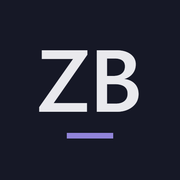
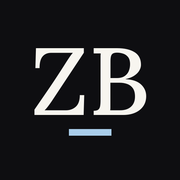
QA pass: tighter hero, tablet layout, polish
- Hero: removed the "I grew FanSided" line; logos carry it. Share card
  and link-preview text now use title lines instead
- Tablets (760-999px) use the side-by-side hero, no giant background photo
- Board and contact sections stay single-column until 1000px, so the
  heading and "Let's talk." no longer squeeze or break
- Guest cards: 2x2 until 1200px so episode lines don't orphan the arrow
- 320px phones: header and buttons fit without overflow
- Fixed clipped "Get in touch" button and "Listen to the podcast" label
- New favicon/app icons in the current style (old purple accent removed)
- Structured data: Bijan Robinson and Drew Brees episodes

Checked at 16 widths (320-2560): no sideways scroll, all text passes
WCAG AA contrast, all tap targets >= 44px, no script errors.

Claude-Session: https://claude.ai/code/session_01J5Zi9X7uXZ3VFSwq8V9zpb

Changed region(s): [[0.1667, 0.25, 0.8333, 0.6667], [0.3611, 0.6944, 0.6389, 0.7778]]

diff --git a/index.html b/index.html
@@ -16,7 +16,7 @@
 <meta property="og:locale" content="en_US">
 <meta property="og:url" content="https://zacharybest.com/">
 <meta property="og:title" content="Zach Best | Founder, Operator, Executive">
-<meta property="og:description" content="I grew FanSided from one sports site into 300+ fan communities. Today I lead it, and the communities at Sports Illustrated.">
+<meta property="og:description" content="Co-founder of FanSided. EVP of Communities at Sports Illustrated. Co-host of What's Your Y? and executive producer of The Sportscaster.">
 <meta property="og:image" content="https://zacharybest.com/og-image.jpg">
 <meta property="og:image:type" content="image/jpeg">
 <meta property="og:image:width" content="1200">
@@ -28,7 +28,7 @@
 <meta name="twitter:site" content="@zacharybest">
 <meta name="twitter:creator" content="@zacharybest">
 <meta name="twitter:title" content="Zach Best | Founder, Operator, Executive">
-<meta name="twitter:description" content="I grew FanSided from one sports site into 300+ fan communities. Today I lead it, and the communities at Sports Illustrated.">
+<meta name="twitter:description" content="Co-founder of FanSided. EVP of Communities at Sports Illustrated. Co-host of What's Your Y? and executive producer of The Sportscaster.">
 <meta name="twitter:image" content="https://zacharybest.com/og-image.jpg">
 <meta name="twitter:image:alt" content="Zach Best, co-founder of FanSided and EVP of Communities at Sports Illustrated">
 
@@ -54,6 +54,8 @@
 {"@type":"NewsArticle","headline":"FanSided launches redesigned app with emphasis on personalized feeds, in-depth coverage","url":"https://www.sportsbusinessjournal.com/Articles/2026/11/16/fansided-launches-redesigned-app-with-emphasis-on-personalized-feeds-in-depth-coverage/","datePublished":"2026-11-16","publisher":{"@type":"Organization","name":"Sports Business Journal"}},
 {"@type":"Movie","name":"The Sportscaster","url":"https://thesportscasterfilm.com/","dateCreated":"2026","duration":"PT55M","director":{"@type":"Person","name":"Hunter Armor"},"producer":{"@id":"https://zacharybest.com/#person"},"productionCompany":{"@type":"Organization","name":"FanSided"},"trailer":{"@type":"VideoObject","name":"The Sportscaster official trailer","embedUrl":"https://player.vimeo.com/video/1229213321?h=27006d0253","thumbnailUrl":"https://zacharybest.com/sportscaster.jpg","uploadDate":"2026-01-01"}},
 {"@type":"PodcastSeries","name":"What's Your Y?","url":"https://open.spotify.com/show/0mIGUzzsk8OOKGRZyQKfwe","webFeed":"https://feeds.redcircle.com/7f8bc817-0a1a-4992-8fe7-951a12bbefea","author":[{"@id":"https://zacharybest.com/#person"},{"@type":"Person","name":"Wyatt Spalding"}]},
+{"@type":"PodcastEpisode","name":"#7 - Bijan Robinson","datePublished":"2026-11-02","url":"https://redcircle.com/shows/7f8bc817-0a1a-4992-8fe7-951a12bbefea/episodes/9937f74e-5a11-4521-8de2-f1b9ad5be853","partOfSeries":{"@type":"PodcastSeries","name":"What's Your Y?"},"actor":{"@type":"Person","name":"Bijan Robinson"}},
+{"@type":"PodcastEpisode","name":"#4 - Drew Brees","datePublished":"2026-07-21","url":"https://podcasts.apple.com/us/podcast/4-drew-brees/id1886473656?i=1000777816941","partOfSeries":{"@type":"PodcastSeries","name":"What's Your Y?"},"actor":{"@type":"Person","name":"Drew Brees"}},
 {"@type":"PodcastEpisode","name":"From KC Chiefs Fan to Media Mogul","url":"https://thecorporatecouch.podbean.com/e/from-kc-chiefs-fan-to-media-mogul-zach-best-on-culture-creativity-and-championship-mindsets/","datePublished":"2025-05-19"},
 {"@type":"Article","headline":"What Businesses Can Learn From the Inclusion Revolution in Sports","url":"https://www.hashtagsports.com/read/sports-inclusion-fansided-zachary-best","datePublished":"2022","author":{"@id":"https://zacharybest.com/#person"}},
 {"@type":"Article","headline":"FanSided CEO Zach Best details his experience at USA Games, shares the importance of inclusion","url":"https://www.specialolympics.org/stories/news/fansided-ceo-zach-best-details-his-experience-at-usa-games-shares-the-importance-of-inclusion","publisher":{"@type":"Organization","name":"Special Olympics"}},
@@ -92,7 +94,7 @@ a{color:inherit;text-decoration:none}
 .sr-only{position:absolute;width:1px;height:1px;margin:-1px;overflow:hidden;clip:rect(0,0,0,0);white-space:nowrap}
 .icon{width:18px;height:18px;fill:currentColor;flex:none}
 
-.btn{display:inline-flex;align-items:center;justify-content:center;gap:8px;min-height:50px;padding:0 22px;border-radius:999px;border:1px solid var(--edge);font:500 15px/1 var(--sans);color:var(--ivory);background:none;cursor:pointer;transition:background .2s,border-color .2s,color .2s}
+.btn{display:inline-flex;align-items:center;justify-content:center;gap:8px;white-space:nowrap;min-height:50px;padding:0 22px;border-radius:999px;border:1px solid var(--edge);font:500 15px/1 var(--sans);color:var(--ivory);background:none;cursor:pointer;transition:background .2s,border-color .2s,color .2s}
 .btn:hover{border-color:var(--ivory)}
 .btn-solid{background:var(--ivory);border-color:var(--ivory);color:var(--ink);font-weight:600}
 .btn-solid:hover{background:#fff;border-color:#fff}
@@ -109,7 +111,7 @@ a{color:inherit;text-decoration:none}
 .top nav a{display:inline-flex;align-items:center;justify-content:center;min-height:44px;min-width:36px;padding:0 8px;font-size:13px;font-weight:500;color:var(--muted);transition:color .2s}
 .top nav a:hover{color:var(--ivory)}
 .top nav .soc a{color:var(--ivory);padding:0 6px}
-.top nav li:last-child a{padding-right:0}
+.top nav li:last-child a:not(.btn){padding-right:0}
 .top .wide{display:none}
 .hero-copy{position:relative;z-index:1;flex:1;display:flex;flex-direction:column;justify-content:space-between;gap:24px;padding-block:14px 22px}
 .hero-name{display:flex;flex-direction:column;gap:6px}
@@ -122,6 +124,7 @@ a{color:inherit;text-decoration:none}
 .marks .fs{height:17px}.marks .si{height:22px}.marks .mm{height:17px}
 .cta{display:flex;gap:10px}
 .cta .btn-solid{flex:1}
+.wide-t{display:none}
 .stats{position:relative;z-index:1;display:grid;grid-template-columns:repeat(3,minmax(0,1fr));gap:12px;padding-block:18px 22px;border-top:1px solid var(--line-2)}
 .stats dt{font-family:var(--serif);font-size:clamp(30px,8.4vw,40px);line-height:1;letter-spacing:-.02em;color:var(--paper-text)}
 .stats dd{margin-top:6px;font-size:12.5px;line-height:1.35;color:var(--muted)}
@@ -169,7 +172,7 @@ a{color:inherit;text-decoration:none}
 .guest .n{display:block;font-family:var(--serif);font-size:22px;line-height:1.1;color:var(--paper-text)}
 .guest .r{display:block;margin-top:4px;font-size:13px;line-height:1.4;color:var(--pod-muted)}
 .guest .t{font-size:14px;line-height:1.42;color:var(--pod-text)}
-.guest .go{margin-top:auto;font-size:12px;font-weight:600;letter-spacing:.08em;text-transform:uppercase;color:var(--pod-accent)}
+.guest .go{margin-top:auto;white-space:nowrap;font-size:12px;font-weight:600;letter-spacing:.08em;text-transform:uppercase;color:var(--pod-accent)}
 
 /* ---------- film (black band) ---------- */
 .film{background:var(--film-bg);border-top:3px solid var(--film-red);padding-block:var(--band)}
@@ -217,7 +220,7 @@ a{color:inherit;text-decoration:none}
 .contact{margin-top:var(--gap);border-top:1px solid var(--line-2)}
 .contact-in{padding-block:44px 30px;display:grid;gap:16px}
 .q{font-family:var(--serif);font-style:italic;font-size:clamp(20px,5.4vw,28px);line-height:1.2;color:var(--muted);max-width:26ch;text-wrap:balance}
-.contact h2{font-family:var(--serif);font-weight:500;font-size:clamp(56px,16vw,128px);line-height:.92;letter-spacing:-.035em;color:var(--paper-text)}
+.contact h2{font-family:var(--serif);font-weight:500;font-size:clamp(52px,16vw,128px);white-space:nowrap;line-height:.92;letter-spacing:-.035em;color:var(--paper-text)}
 .email{justify-self:start;font-family:var(--serif);font-size:clamp(24px,6.8vw,36px);letter-spacing:-.012em;color:var(--accent);border-bottom:1px solid var(--edge);padding:6px 0}
 .email:hover{border-color:var(--accent)}
 .contact .acts{display:flex;flex-wrap:wrap;gap:10px}
@@ -227,24 +230,20 @@ a{color:inherit;text-decoration:none}
 .foot ul{display:flex}
 .foot li:last-child a{padding-right:0}
 
+@media (max-width:374px){
+  .top .site{display:none}
+  .top{justify-content:flex-end}
+  .marks{gap:12px 16px}
+  .cta .btn{padding:0 16px;font-size:14px}
+  .pod-head{grid-template-columns:80px minmax(0,1fr)}
+  .pod-art{width:80px;height:80px}
+}
+
 /* ---------- phone dock ---------- */
 .dock{position:fixed;z-index:40;left:0;right:0;bottom:0;padding:10px var(--pad) calc(10px + env(safe-area-inset-bottom));background:rgba(14,14,17,.9);-webkit-backdrop-filter:blur(14px);backdrop-filter:blur(14px);border-top:1px solid var(--line-2);display:flex;gap:10px;transform:translateY(110%);transition:transform .3s cubic-bezier(.2,.7,.2,1);visibility:hidden}
 .dock.show{transform:none;visibility:visible}
 .dock .btn{min-height:48px}
 .dock .btn-solid{flex:1}
-
-/* ---------- phone hero: smaller portrait, in the flow ---------- */
-@media (max-width:759px){
-  .hero-main{min-height:0}
-  .hero-main::after{display:none}
-  .hero-copy{display:contents}
-  .top{order:0}
-  .hero-name{order:1;padding-top:16px}
-  .hero-main>picture{order:2;display:block;align-self:flex-end;width:min(64vw,270px);margin:-18px -8px -26px 0;position:relative;z-index:0}
-  .hero-photo{position:static;transform:none;width:100%;max-width:100%}
-  .hero-name,.hero-bottom{position:relative;z-index:1}
-  .hero-bottom{order:3;padding-bottom:22px}
-}
 
 /* ================= tablet and up ================= */
 @media (min-width:760px){
@@ -255,11 +254,11 @@ a{color:inherit;text-decoration:none}
   .top nav a{font-size:14px;color:var(--ivory);padding:0 12px}
   .top nav .soc a{padding:0 8px}
   .top nav .btn{margin-left:10px;padding:0 20px}
-  .hero-photo{top:150px;width:600px}
-  .hero h1{font-size:104px}
   .lede{font-size:30px}
   .hero-copy{padding-block:24px 36px}
   .cta .btn-solid{flex:none;padding:0 28px}
+  .wide-t{display:inline}
+  .narrow-t{display:none}
   .marks .fs{height:20px}.marks .si{height:25px}.marks .mm{height:20px}
   .stats{grid-template-columns:repeat(3,max-content);gap:clamp(40px,7vw,88px);justify-content:start;padding-block:24px 28px}
   .stats dd{font-size:13.5px}
@@ -289,7 +288,6 @@ a{color:inherit;text-decoration:none}
   .film-copy{gap:18px}
   .film .acts .btn-solid{flex:none}
 
-  .sec-grid{grid-template-columns:minmax(0,5fr) minmax(0,7fr);gap:clamp(40px,6vw,96px);align-items:start}
   .pillars li{padding:24px 24px 24px 0}
   .pillars li:nth-child(even){padding:24px 0 24px 24px}
   .pillars h3{font-size:18px}
@@ -298,24 +296,45 @@ a{color:inherit;text-decoration:none}
   .worked{gap:20px 40px;padding-bottom:26px;border-bottom:1px solid var(--line)}
   .worked .si{height:23px}.worked .fs{height:19px}.worked .mm{height:19px}.worked .ti{height:18px}.worked .me{height:21px}
 
-  .contact-in{grid-template-columns:minmax(0,1fr) auto;align-items:end;column-gap:48px;padding-block:clamp(64px,8vw,104px) 48px}
-  .contact-in>*{grid-column:1}
-  .contact .acts{grid-column:2;grid-row:3;align-self:end}
+  .contact-in{padding-block:clamp(64px,8vw,104px) 48px}
+  .sec h2{max-width:22ch}
   .dock{display:none}
 }
-@media (min-width:1000px){
-  .hero-main{display:grid;grid-template-columns:minmax(0,1.25fr) minmax(0,.75fr);grid-template-rows:auto 1fr;column-gap:clamp(32px,4vw,64px);min-height:clamp(560px,calc(100svh - 124px),720px)}
+/* ---------- phone + tablet hero: smaller portrait, in the flow ---------- */
+@media (max-width:759px){
+  .hero-main{min-height:0}
+  .hero-main::after{display:none}
+  .hero-copy{display:contents}
+  .top{order:0}
+  .hero-name{order:1;padding-top:16px}
+  .hero-main>picture{order:2;display:block;align-self:flex-end;width:min(64vw,270px);margin:-18px -8px -26px 0;position:relative;z-index:0}
+  .hero-photo{position:static;transform:none;width:100%;max-width:100%}
+  .hero-name,.hero-bottom{position:relative;z-index:1}
+  .hero-bottom{order:3;padding-bottom:22px}
+}
+
+@media (min-width:760px){
+  .hero-main{display:grid;grid-template-columns:minmax(0,1.25fr) minmax(0,.75fr);grid-template-rows:auto 1fr;column-gap:clamp(32px,4vw,64px);min-height:clamp(500px,calc(100svh - 124px),640px)}
   .hero-main::after{display:none}
   .top{grid-column:1/-1;grid-row:1}
-  .hero-main>picture{display:block;grid-column:2;grid-row:2;align-self:center;justify-self:end;width:100%;max-width:540px}
+  .hero-main>picture{display:block;grid-column:2;grid-row:2;align-self:center;justify-self:end;width:100%;max-width:470px}
   .hero-photo{position:static;transform:none;width:100%;height:auto;max-width:100%}
   .hero-copy{grid-column:1;grid-row:2;justify-content:center;gap:26px;padding-block:32px 40px}
   .hero-name{gap:22px}
-  .hero h1{font-size:clamp(100px,10.4vw,150px);line-height:.9;letter-spacing:-.04em}
+  .hero h1{font-size:clamp(80px,10.4vw,150px);line-height:.9;letter-spacing:-.04em}
   .hero-bottom{gap:26px}
   .lede{font-size:clamp(26px,2.3vw,33px);max-width:20em}
   .marks{order:3;gap:30px}
-  .guests{grid-template-columns:repeat(4,minmax(0,1fr));gap:20px}
+}
+@media (min-width:760px) and (max-width:999px){
+  .hero-main{min-height:0}
+  .hero-copy{padding-block:56px 48px}
+}
+@media (min-width:1000px){
+  .sec-grid{grid-template-columns:minmax(0,5fr) minmax(0,7fr);gap:clamp(40px,6vw,96px);align-items:start}
+  .contact-in{grid-template-columns:minmax(0,1fr) auto;align-items:end;column-gap:48px}
+  .contact-in>*{grid-column:1}
+  .contact .acts{grid-column:2;grid-row:3;align-self:end}
   .film-grid{grid-template-columns:minmax(0,1.15fr) minmax(0,.85fr);gap:clamp(32px,5vw,64px);align-items:center}
   .film .kicker.top-k{display:none}
   .film-copy .kicker{display:block}
@@ -335,6 +354,9 @@ a{color:inherit;text-decoration:none}
   .tl .dot{display:block;position:relative;width:11px;height:11px;border-radius:50%;background:var(--ink);border:1.5px solid var(--dim)}
   .tl .now .dot{background:var(--accent);border-color:var(--accent)}
   .tl .what{font-size:15.5px}
+}
+@media (min-width:1200px){
+  .guests{grid-template-columns:repeat(4,minmax(0,1fr));gap:20px}
 }
 @media (prefers-reduced-motion:reduce){
   html{scroll-behavior:auto}
@@ -376,7 +398,6 @@ a{color:inherit;text-decoration:none}
         <h1 id="name">Zach Best</h1>
       </div>
       <div class="hero-bottom">
-        <p class="lede">I grew FanSided from one sports site into <em>300+ fan communities.</em> Today I lead it, and the communities at Sports Illustrated.</p>
         <div class="marks">
           <img class="fs" src="logo-fansided.png" width="296" height="64" alt="FanSided">
           <img class="si" src="logo-si.png" width="250" height="64" alt="Sports Illustrated">
@@ -384,7 +405,7 @@ a{color:inherit;text-decoration:none}
         </div>
         <div class="cta" id="hero-cta">
           <a class="btn btn-solid" href="mailto:zach.best@si.com?subject=Hello%20Zach">Start a conversation</a>
-          <a class="btn" href="#podcast">Podcast</a>
+          <a class="btn" href="#podcast"><span class="wide-t">Listen to the podcast</span><span class="narrow-t">Podcast</span></a>
         </div>
       </div>
     </div>
